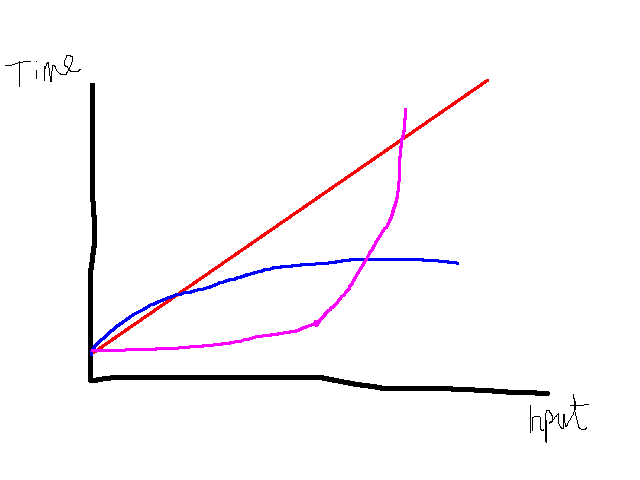
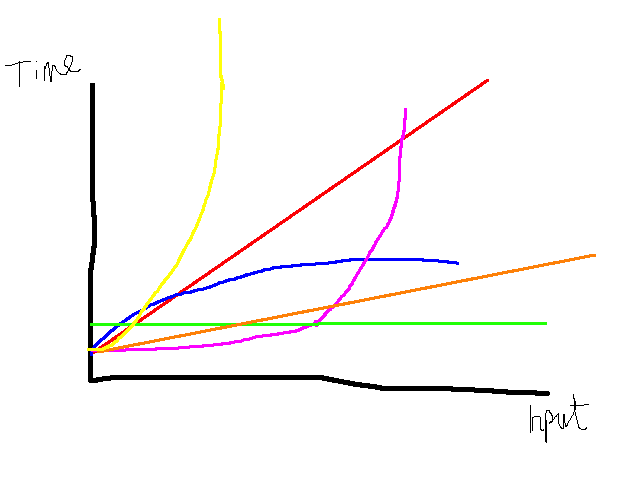
updated graph and ranked efficiency

diff --git a/AlgorithmicComplexityI/notes.md b/AlgorithmicComplexityI/notes.md
@@ -11,10 +11,9 @@ Example of an algorithm?
 What is complexity in reference to algorithmic complexity?
 
 - Not just following the linear order of code.
-- time
+- time (time complexity)
 - memory (space complexity)
 - efficiency
-- difficulty --> cyclomatic complexity (readability)
 - how it scales --> if input size doubles does the time it takes to run double for instance.
 
 
@@ -69,4 +68,14 @@ Breaking it down into the constituent parts.
 
 We can chart out algorithms to see how scalable they are. Example is shown in the AlgorithmGraph. 
 
-This shows the algorithm time complexity. 
+This shows the algorithm time complexity.
+
+We are not looking at specific inputs but instead at it's limits which is more efficient.
+
+The order of complexity from most efficient to least efficient is:
+
+- Green line: Constant time complexity, O(1) (read as big O of 1).
+- Blue line: Logarithmic time complexity, O(log base 2(n))
+- Red line and Orange line: We do not differ between linear graphs for algorithmic complexity. Gradient does not matter. Seen as pretty good. O(n)
+- Pink line: quadratic. O(n**2). read as n squared. This falls under the polynomial group. This encompasses n to the power of any positive integer.
+- Yellow line: exponential. O(2**n). 2 to the power of n.
